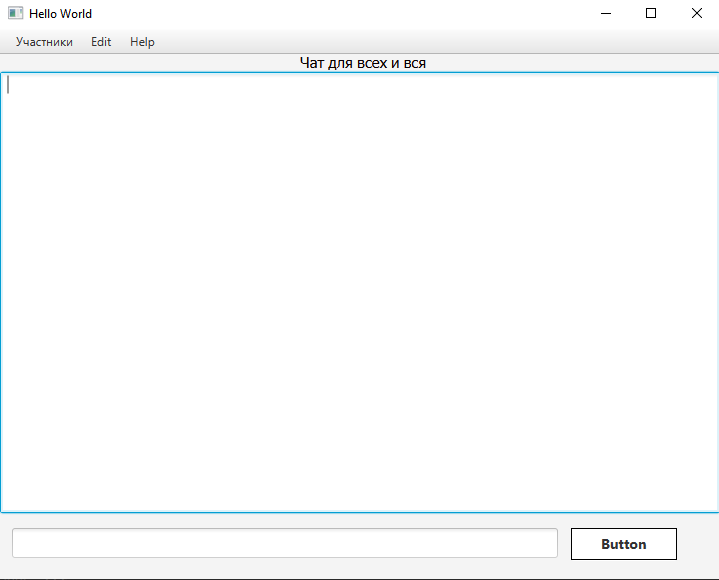
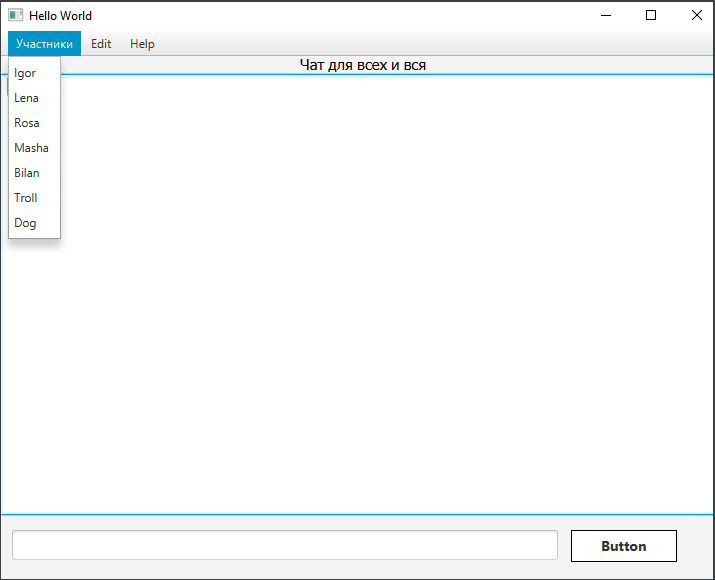
finish homework

Changed region(s): [[0.0, 0.0, 1.0, 1.0]]

diff --git a/src/sample/Main.java b/src/sample/Main.java
@@ -12,7 +12,7 @@ public class Main extends Application {
     public void start(Stage primaryStage) throws Exception{
         Parent root = FXMLLoader.load(getClass().getResource("sample.fxml"));
         primaryStage.setTitle("Hello World");
-        primaryStage.setScene(new Scene(root, 720, 500));
+        primaryStage.setScene(new Scene(root, 720, 550));
         primaryStage.show();
     }
 
